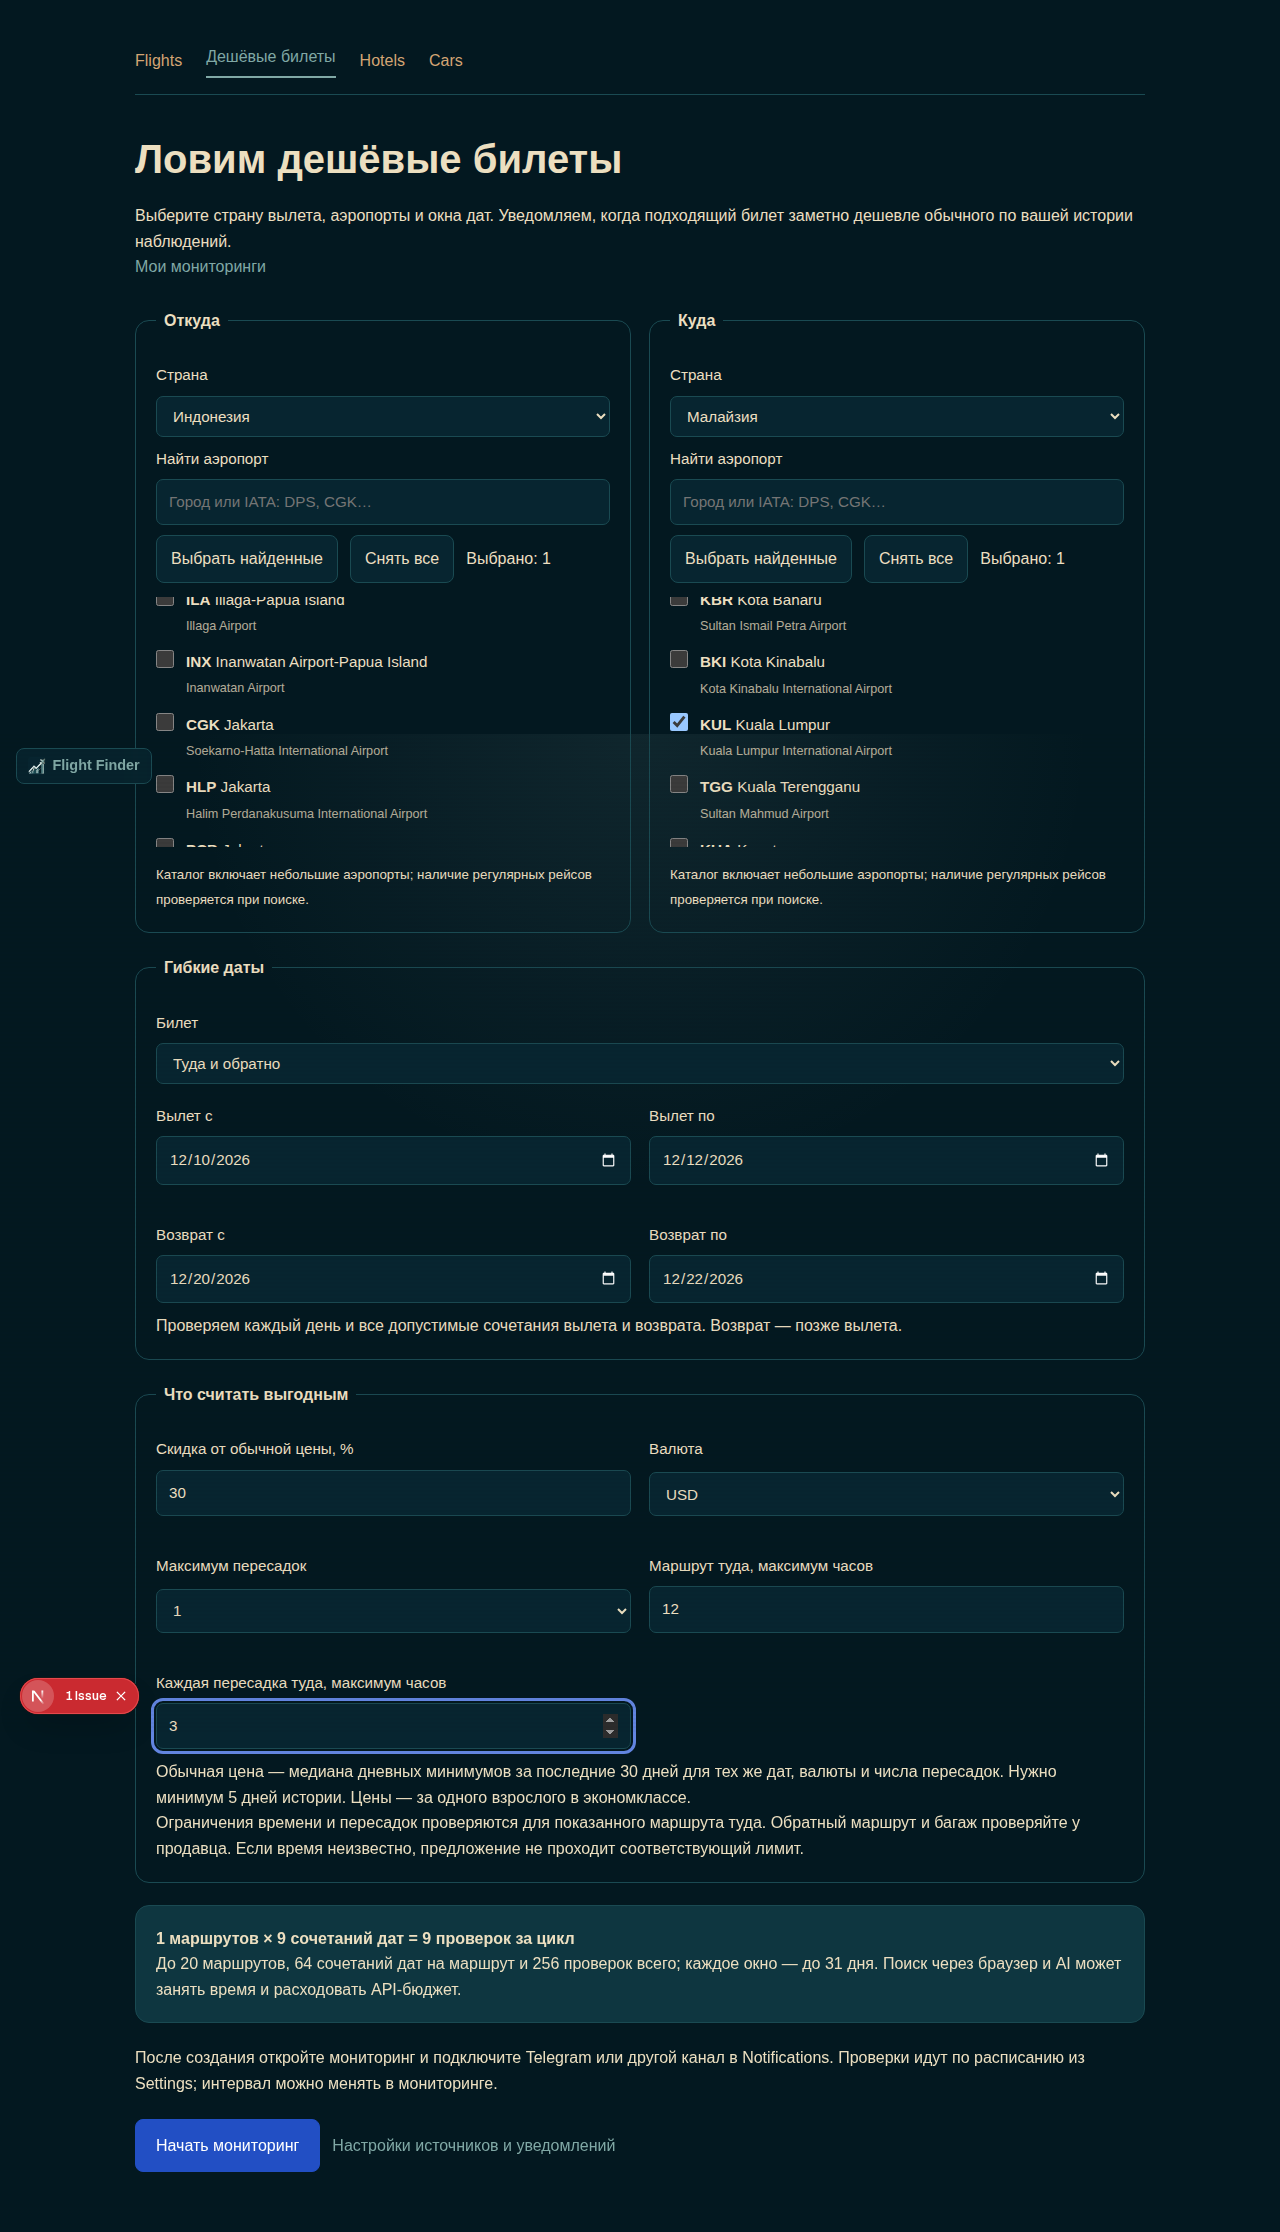
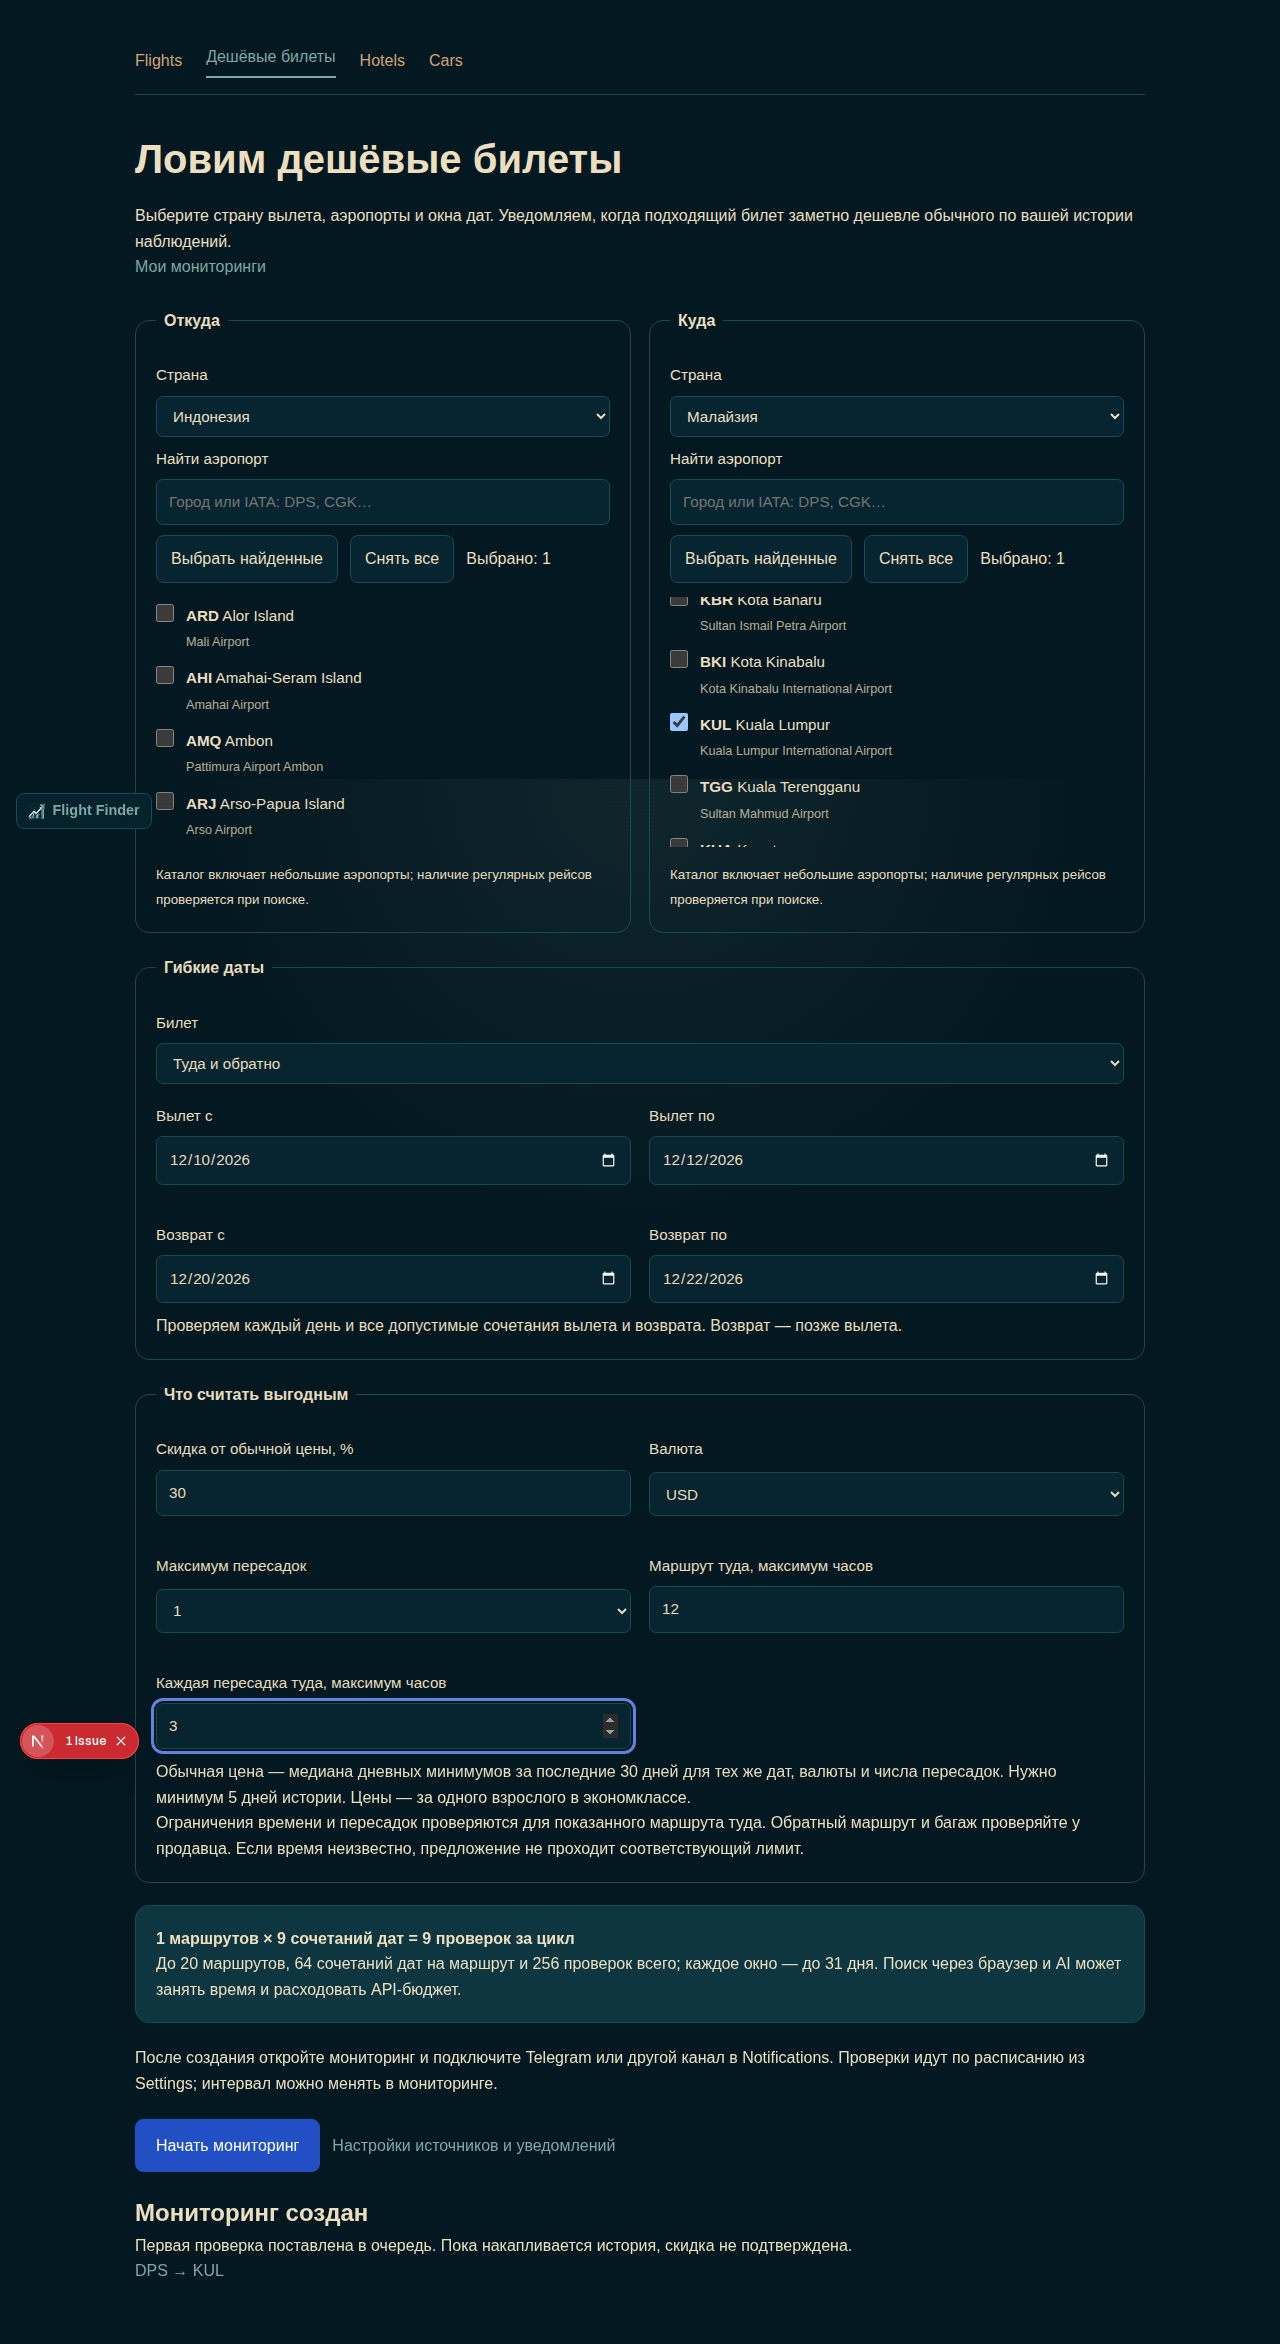
feat: start Bali monitoring with a bounded multi-country preset

diff --git a/apps/web/src/components/deals/DealForm.tsx b/apps/web/src/components/deals/DealForm.tsx
@@ -20,12 +20,15 @@ function airportResults(value: unknown): AirportResult[] {
   });
 }
 
-export function DealForm({ countries, indonesia }: { countries: { code: string; name: string }[]; indonesia: AirportResult[] }) {
-  const [origin, setOrigin] = useState<CountryState>({ country: 'ID', airports: indonesia, selected: ['CGK', 'DPS'], loading: false });
-  const [destination, setDestination] = useState<CountryState>({ country: '', airports: [], selected: [], loading: false });
-  const [tripType, setTripType] = useState('round_trip');
-  const [departureFrom, setDepartureFrom] = useState('');
-  const [departureTo, setDepartureTo] = useState('');
+export function DealForm({ countries, indonesia, discovery, initialDates }: {
+  countries: { code: string; name: string }[]; indonesia: AirportResult[]; discovery: AirportResult[];
+  initialDates: { from: string; to: string };
+}) {
+  const [origin, setOrigin] = useState<CountryState>({ country: 'ID', airports: indonesia, selected: ['DPS'], loading: false });
+  const [destination, setDestination] = useState<CountryState>({ country: 'any', airports: discovery, selected: discovery.slice(0, 8).map(airport => airport.code), loading: false });
+  const [tripType, setTripType] = useState('one_way');
+  const [departureFrom, setDepartureFrom] = useState(initialDates.from);
+  const [departureTo, setDepartureTo] = useState(initialDates.to);
   const [returnFrom, setReturnFrom] = useState('');
   const [returnTo, setReturnTo] = useState('');
   const [discount, setDiscount] = useState('30');
@@ -52,6 +55,10 @@ export function DealForm({ countries, indonesia }: { countries: { code: string; 
   async function changeCountry(side: 'origin' | 'destination', country: string) {
     const setSide = side === 'origin' ? setOrigin : setDestination;
     const sequence = ++requests.current[side];
+    if (side === 'destination' && country === 'any') {
+      setDestination({ country, airports: discovery, selected: discovery.slice(0, 8).map(airport => airport.code), loading: false });
+      return;
+    }
     setSide({ country, airports: [], selected: [], loading: !!country });
     if (!country) return;
     try {
@@ -75,7 +82,7 @@ export function DealForm({ countries, indonesia }: { countries: { code: string; 
     setSaving(true);
     try {
       const response = await fetch('/api/queries', { method: 'POST', headers: { 'Content-Type': 'application/json' }, body: JSON.stringify({
-        rawInput: `Дешёвые билеты из ${origin.country}`, originCountry: origin.country, routes,
+        rawInput: `Дешёвые билеты из ${origin.country}${destination.country === 'any' ? ' — любые направления из выбранного набора' : ''}`, originCountry: origin.country, routes,
         dateFrom: departureFrom, outboundDateTo: departureTo, returnDateFrom: tripType === 'one_way' ? null : returnFrom,
         dateTo: tripType === 'one_way' ? departureTo : returnTo, tripType, flexibility: 0,
         dealMinDiscountPct: Number(discount), maxStops: stops === '' ? null : Number(stops),
@@ -95,7 +102,9 @@ export function DealForm({ countries, indonesia }: { countries: { code: string; 
   return <form className={styles.form} onSubmit={submit}>
     <div className={styles.columns}>
       <CountryAirports label="Откуда" countries={countries} {...origin} onCountry={country => void changeCountry('origin', country)} onSelected={selected => setOrigin({ ...origin, selected })} />
-      <CountryAirports label="Куда" countries={countries} {...destination} onCountry={country => void changeCountry('destination', country)} onSelected={selected => setDestination({ ...destination, selected })} />
+      <CountryAirports label="Куда" countries={[{ code: 'any', name: 'Любые направления — стартовый набор' }, ...countries]} {...destination}
+        description={destination.country === 'any' ? 'Выбираем среди 20 популярных аэропортов в разных странах. Отмеченные аэропорты — полное покрытие этого мониторинга; все аэропорты мира не сканируются. Можно менять набор или выбрать страну.' : undefined}
+        onCountry={country => void changeCountry('destination', country)} onSelected={selected => setDestination({ ...destination, selected })} />
     </div>
     <fieldset><legend>Гибкие даты</legend>
       <label>Билет<select aria-label="Билет" value={tripType} onChange={event => setTripType(event.target.value)}><option value="round_trip">Туда и обратно</option><option value="one_way">В одну сторону</option></select></label>

diff --git a/apps/web/src/app/deals/page.tsx b/apps/web/src/app/deals/page.tsx
@@ -2,7 +2,7 @@ import { redirect } from 'next/navigation';
 import Link from 'next/link';
 import { TravelNav } from '@/components/hotels/TravelNav';
 import { DealForm } from '@/components/deals/DealForm';
-import { countryAirports, flightCountries } from '@/lib/deals/airports';
+import { countryAirports, discoveryAirports, flightCountries } from '@/lib/deals/airports';
 import { getCurrentProfile } from '@/lib/user-auth';
 import { isMultiUserEnabled } from '@/lib/multi-user';
 import styles from '@/components/deals/Deals.module.css';
@@ -11,11 +11,14 @@ export const dynamic = 'force-dynamic';
 
 export default async function DealsPage() {
   if (await isMultiUserEnabled() && !await getCurrentProfile()) redirect('/login?next=/deals');
+  const tomorrow = new Date(Date.now() + 86_400_000).toISOString().slice(0, 10);
+  const windowEnd = new Date(Date.now() + 30 * 86_400_000).toISOString().slice(0, 10);
   return <main className={styles.root}>
     <TravelNav active="deals" />
     <h1>Ловим дешёвые билеты</h1>
     <p>Выберите страну вылета, аэропорты и окна дат. Уведомляем, когда подходящий билет заметно дешевле обычного по вашей истории наблюдений.</p>
     <p><Link href="/">Мои мониторинги</Link></p>
-    <DealForm countries={flightCountries} indonesia={countryAirports.filter(airport => airport.country === 'ID')} />
+    <DealForm countries={flightCountries} indonesia={countryAirports.filter(airport => airport.country === 'ID')}
+      discovery={discoveryAirports} initialDates={{ from: tomorrow, to: windowEnd }} />
   </main>;
 }

diff --git a/apps/web/src/components/deals/CountryAirports.tsx b/apps/web/src/components/deals/CountryAirports.tsx
@@ -13,9 +13,10 @@ interface Props {
   onCountry: (country: string) => void;
   onSelected: (codes: string[]) => void;
   loading: boolean;
+  description?: string;
 }
 
-export function CountryAirports({ label, countries, country, airports, selected, onCountry, onSelected, loading }: Props) {
+export function CountryAirports({ label, countries, country, airports, selected, onCountry, onSelected, loading, description }: Props) {
   const [search, setSearch] = useState('');
   const visible = airports.filter(airport => `${airport.code} ${airport.city} ${airport.name}`.toLowerCase().includes(search.toLowerCase()));
   return <fieldset className={styles.airports}>
@@ -24,6 +25,7 @@ export function CountryAirports({ label, countries, country, airports, selected,
       <option value="">Выберите страну</option>
       {countries.map(item => <option key={item.code} value={item.code}>{item.name}</option>)}
     </select></label>
+    {description && <p>{description}</p>}
     <label>Найти аэропорт<input type="search" value={search} onChange={event => setSearch(event.target.value)} placeholder="Город или IATA: DPS, CGK…" /></label>
     <div className={styles.actions}>
       <button type="button" disabled={loading || !visible.length} onClick={() => onSelected([...new Set([...selected, ...visible.map(item => item.code)])])}>Выбрать найденные</button>

diff --git a/apps/web/src/lib/deals/airports.ts b/apps/web/src/lib/deals/airports.ts
@@ -13,3 +13,11 @@ export const flightCountries = [...new Set(countryAirports.map(airport => airpor
 export function airportInCountry(code: string, country: string): boolean {
   return countryAirports.some(airport => airport.code === code && airport.country === country);
 }
+
+// A bounded discovery shortlist, not an exhaustive worldwide airport search.
+const discoveryCodes = ['KUL', 'SIN', 'BKK', 'SGN', 'NRT', 'SYD', 'DXB', 'AMS',
+  'CGK', 'HKG', 'ICN', 'TPE', 'MNL', 'PER', 'DOH', 'IST', 'LHR', 'CDG', 'FRA', 'LAX'];
+export const discoveryAirports = discoveryCodes.flatMap(code => {
+  const airport = countryAirports.find(item => item.code === code);
+  return airport ? [airport] : [];
+});

diff --git a/docs/personal-deals.md b/docs/personal-deals.md
@@ -1,6 +1,8 @@
 # Personal flight deals
 
-This fork adds `/deals`, a structured flight monitoring form. Indonesia is the initial origin country, with CGK and DPS selected. Select any country and its airports on either side; country selection is expanded into explicit airport routes. The catalog includes airports without scheduled commercial service, so choose the airports you can use. Destination countries must be selected explicitly; worldwide discovery is not implemented.
+This fork adds `/deals`, a structured flight monitoring form. The initial origin is Indonesia, with Bali (DPS) selected. It starts in one-way mode for the next 30 days. Select any origin country and its airports; country selection expands into explicit airport routes. The catalog includes airports without scheduled commercial service, so choose the airports you can use.
+
+The default destination mode is **Any destination — starter shortlist**, with eight airports across countries selected: KUL, SIN, BKK, SGN, NRT, SYD, DXB and AMS. The picker offers 20 popular airports; users can change the selected subset or switch to a specific country. The selected airports are the complete monitored coverage, displayed before creation. This is a bounded multi-country search, not exhaustive worldwide discovery or a promise to find every cheap destination. Eight routes over 30 one-way dates require 240 checks per cycle; adding airports may require narrower dates. Existing trackers retain their routes when the form is changed.
 
 Outbound and return windows are independent and inclusive. Every valid pair is checked, excluding returns on or before departure. One-way windows cover every day. Each window is limited to 31 days, each route to 64 date pairs, each creation to 20 routes and 256 checks per cycle. The form displays the actual workload and the API enforces these limits without silent sampling. Sources can still block or fail individual checks; these appear as partial/failed runs. The scanner is sequential, so broad windows can take a long time and incur provider costs.
 
@@ -18,4 +20,4 @@ Use Node 22+ and the repository's npm workspaces. Supply `DATABASE_URL` for your
 
 For an HTTPS development preview, `apps/web/package.json` sets Portless name `flight-finder`, and the dev script honors `PORT`. Run `portless` from `apps/web` with `SELF_HOSTED=true` and `APP_URL` matching the displayed HTTPS origin. If privileged ports are unavailable, use `PORTLESS_PORT=1355` and `APP_URL=https://flight-finder.localhost:1355`. Configure extraction credentials/model in Settings through the existing provider setup. No Trip.com, OneTwoTrip or AirAsia direct API is added; source coverage remains that of upstream Flight Finder, and booking follows the observed seller link.
 
-GitHub Actions is disabled for this personal fork. Run `npm run ci` locally: web/CLI lint, typecheck, tests and both builds. Focused tests cover date grids, return identity, comparable-price baselines, cold start and strict time limits. `scripts/deals/browser-test.mjs` verifies the structured form, server rejection of oversized windows, and tracker status against an initialized disposable local PostgreSQL instance with browser session fixture. With a disposable initialized database and no enabled channels, run `TSX_TSCONFIG_PATH=apps/web/tsconfig.json node --import tsx scripts/deals/alert-test.mts` to verify real PostgreSQL warmup, outbox deduplication and delivery authority without sending notifications.
+GitHub Actions is disabled for this personal fork. Run `npm run ci` locally: web/CLI lint, typecheck, tests and both builds. Focused tests cover date grids, return identity, comparable-price baselines, cold start and strict time limits. `scripts/deals/browser-test.mjs` verifies the Bali multi-country preset, its complete 240-check payload, explicit country selection, server rejection of oversized windows, and tracker status against an initialized disposable local PostgreSQL instance with browser session fixture. With a disposable initialized database and no enabled channels, run `TSX_TSCONFIG_PATH=apps/web/tsconfig.json node --import tsx scripts/deals/alert-test.mts` to verify real PostgreSQL warmup, outbox deduplication and delivery authority without sending notifications.

diff --git a/CHANGELOG.md b/CHANGELOG.md
@@ -5,6 +5,7 @@
 ### Added
 
 - **Personal flight deal monitoring.** Select an origin country and airports, independent outbound/return windows, maximum outbound stops/journey/layover hours, and a discount threshold (initially 30%). Full bounded date grids retain different return fares, while alerts compare eligible prices with comparable daily historical minima and show a five-day warmup. See [personal setup and limitations](docs/personal-deals.md).
+- **Bali multi-country preset.** Start from DPS with a 30-day one-way window and eight destinations selected from a visible 20-airport shortlist; switch to a specific country or change the monitored subset within the workload limits.
 
 ### Fixed
 
